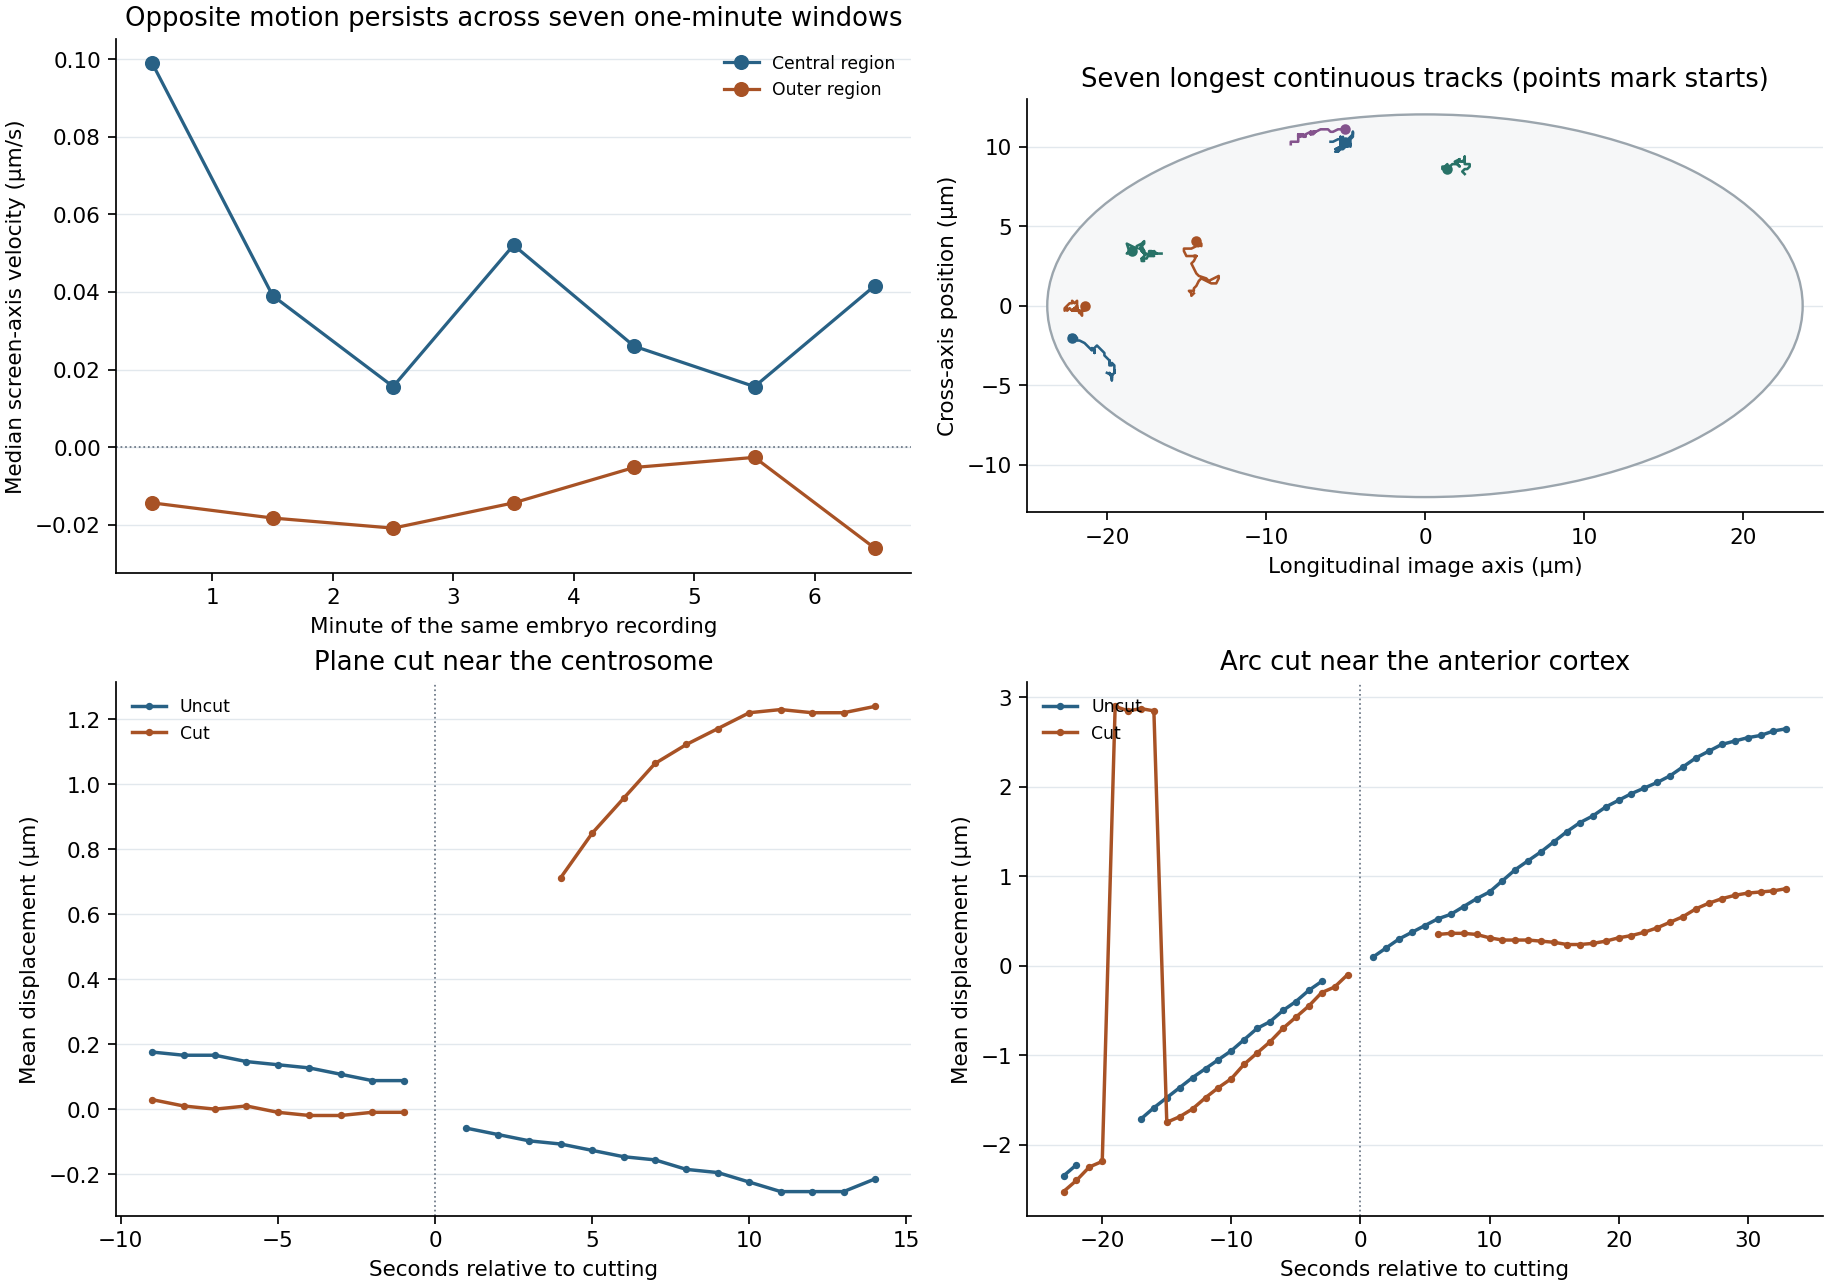
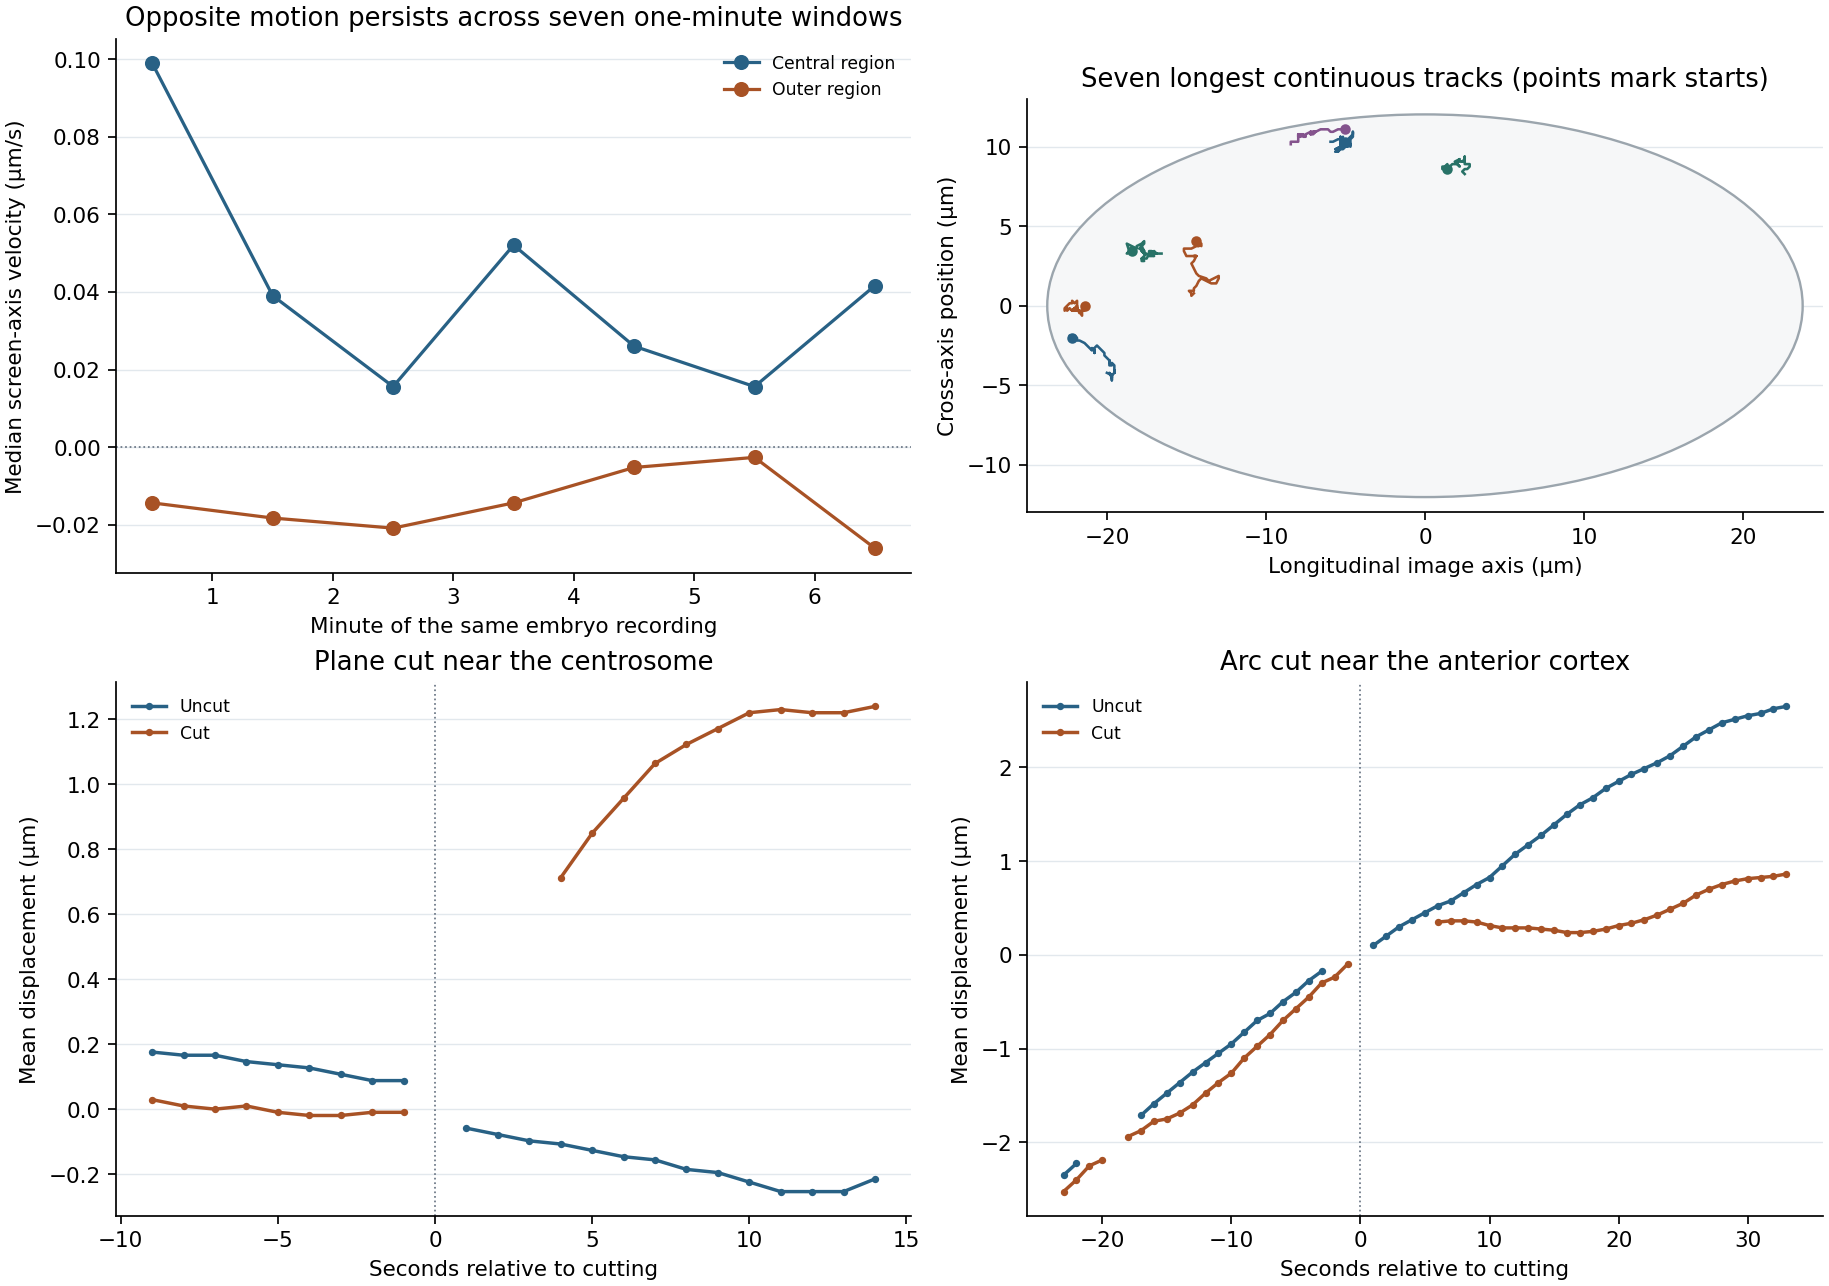
Exclude the chart legend from the pre-cut displacement trace

diff --git a/experiments/E59_spindle_mechanisms/run.py b/experiments/E59_spindle_mechanisms/run.py
@@ -20,7 +20,7 @@ def traces(image, axes, times, green):
         for t in times:
             x = round(xzero + (xr - xzero) * t / t_ref)
             # The mean trace is saturated. Avoid the legend and the frame.
-            top = 95 if green else 113
+            top = (220 if t < 0 else 95) if green else 113
             bottom = 440 if green else 340
             yy = np.where(mask[top:bottom, x - 1 : x + 2])[0]
             means.append(float(np.median(yy) + top) if yy.size >= 4 else None)
@@ -87,6 +87,12 @@ def run(raw, out):
                 sum(v is not None for v in row) > 0.6 * len(row)
                 for panel in (plane, arc)
                 for row in panel["uncut_and_cut_um"]
+            ),
+            "pre_cut_arc_means_below_zero_until_minus_6_seconds": all(
+                v < 0
+                for row in arc["uncut_and_cut_um"]
+                for t, v in zip(arc["times_s"], row, strict=True)
+                if t <= -6 and v is not None
             ),
             "units_consistent_with_printed_ticks": abs((236 - 156) * 0.025 - 2) < 0.01
             and abs((198 - 146) * 2 / 102.5 - 1) < 0.025,
